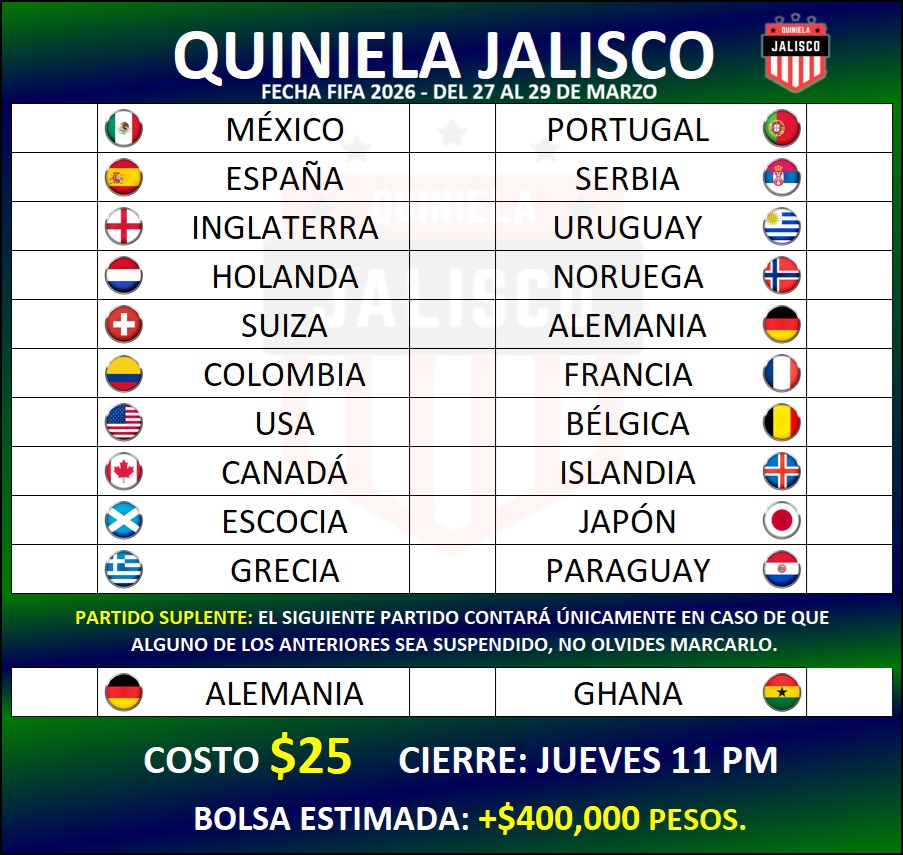
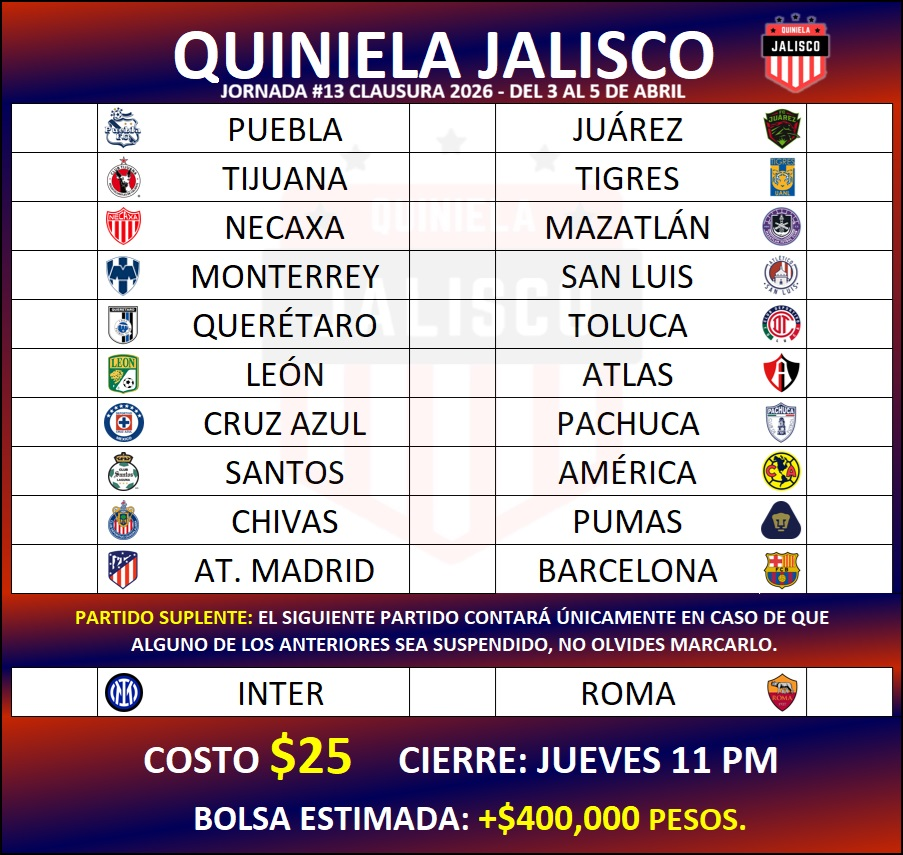
Jornada 13 C26

diff --git a/11/styles11.css b/11/styles11.css
@@ -95,8 +95,8 @@ body{
     margin-top: 8.5%;
     border-top: solid 1px black;
     border-radius: 0 0 14px 14px;
-    background: -webkit-linear-gradient(0.49turn, rgb(0,66,40) -7%, rgb(1,4,96) 80%);
-    background: linear-gradient(0.49turn, rgb(0,66,40) -7%, rgb(1,4,96) 80%);
+    background: -webkit-linear-gradient(0.49turn, rgb(89,17,49) -7%, rgb(1,4,96) 80%);
+    background: linear-gradient(0.49turn, rgb(89,17,49) -7%, rgb(1,4,96) 80%);
 }
 
 .text-lg{
@@ -295,7 +295,7 @@ h6{
 }
 
 #cantidad:before{
-    content:'+$400,000 pesos\A¡Todo se reparte esta semana!';
+    content:'+$400,000 pesos';
     color: yellow;
     white-space:pre;
 }
